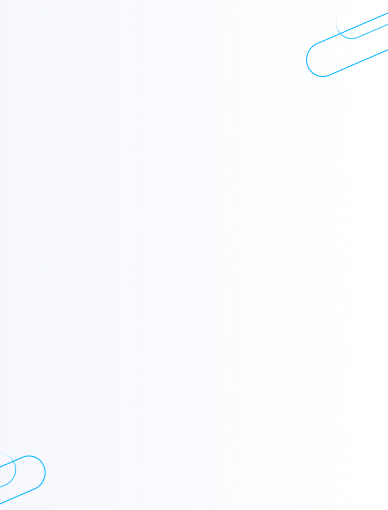
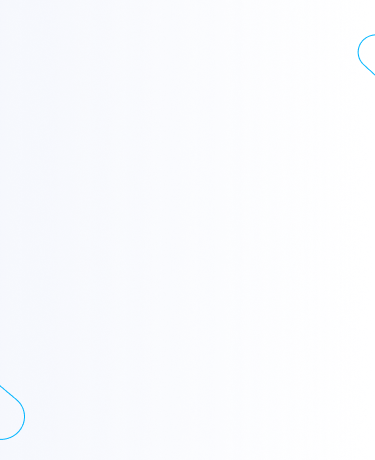
styles changes

diff --git a/src/pages/index.tsx b/src/pages/index.tsx
@@ -17,7 +17,7 @@ import { SesionStorageKeys } from '../session';
 export default function Home() {
   const [device, setDevice] = useSessionStorage(SesionStorageKeys.device.key, deviceType);
 
-  const { isMobile, isTablet, heightHeader, isSafari, isMedium, isLG } = useMediaQueryResponsive();
+  const { isMobile, isTablet, heightHeader, isSafari, isMedium, isLG, isSM } = useMediaQueryResponsive();
   useEffect(
     () => () => {
       setDevice(deviceType)
@@ -36,14 +36,14 @@ export default function Home() {
 
   }, []
   );
-  const titleClasses = isSafari ? 'xs:flex sm:flex  md:justify-end xs:pr-2 sm:pr-6 xs:pt-2 md:pr-[6rem] md:mt-1 xs:mt-5 lg:mt-[100px]  lg:flex lg:justify-center lg:ml-[40rem] paragraphContent  ml-5 sm:ml-0' : 'xs:flex sm:flex  md:justify-end  sm:pr-6 xs:pt-2 md:pr-[2rem] md:mt-1 xs:mt-5 lg:mt-[100px]  lg:flex lg:justify-center lg:ml-[40rem] sm:ml-5 xs:ml-1 sm:ml-0 lg:mr-40 xl:mt-[150px]';
+  const titleClasses = isSafari ? 'xs:flex sm:flex  md:justify-end  sm:pr-6 xs:pt-2 md:pr-[2rem] md:mt-1 xs:mt-5 lg:mt-[100px]  lg:flex lg:justify-center lg:ml-[40rem]  xs:ml-1 sm:ml-3 lg:mr-40 xl:mt-[150px] xs:mt-[34px] sm:mt-[44px]' : 'xs:flex sm:flex  md:justify-end  sm:pr-6 xs:pt-2 md:pr-[2rem] md:mt-1 xs:mt-5 lg:mt-[100px]  lg:flex lg:justify-center lg:ml-[40rem]  xs:ml-1 sm:ml-3 lg:mr-40 xl:mt-[150px] xs:mt-[34px] sm:mt-[44px] xxxl:mt-[290px] xxxl:pl-40';
 
-  const headerDescriptionClasess = isSafari ? 'xs:flex sm:flex  md:justify-end xs:pr-2 sm:pr-6 xs:pt-2 md:pr-[6rem] md:mt-1 xs:mt-5 lg:mt-[6px]  lg:flex lg:justify-center lg:ml-[40rem] paragraphContent ml-5' : 'xs:flex sm:flex  md:justify-end  sm:pr-6 xs:pt-2 md:pr-0 md:mt-5 xs:mt-5 lg:mt-[6px]  lg:flex lg:justify-center lg:ml-[40rem]  ml-5 xxl:pr-10';
+  const headerDescriptionClasess = isSafari ? 'xs:flex sm:flex  md:justify-end  sm:pr-6 xs:pt-2 md:pr-0 md:mt-5 xs:mt-[17px] lg:mt-[6px]  lg:flex lg:justify-center lg:ml-[40rem]  ml-5 xxl:pr-10' : 'xs:flex sm:flex  md:justify-end  sm:pr-6 xs:pt-2 md:pr-0 md:mt-5 xs:mt-[17px] lg:mt-[6px]  lg:flex lg:justify-center lg:ml-[40rem]  ml-5 xxl:pr-10 xxxl:pl-40';
   return (
     <div data-testid="landingPage" className="overflow-hidden landingPage">
-      <div className={`lg:bg-landing-lg xl:bg-landing-xl xxl:bg-bg-landing-xxl xxxl:bg-landing-xxxl md:bg-landing-md sm:bg-landing-sm smd:bg-landing-smd bg-landing-xs bg-no-repeat  -z-30 bg-cover xs:bg-bottom sm:bg-bottom md:bg-bottom lg:bg-center xl:bg-center xs:h-[419px] sm:h-[484px] smdd:h-[460px] smd:h-[484px]  md:h-[401px] lg:h-[596px] xl:h-[668px] xxl:bg-center xxl:h-[638px] xxxl:h-[752px] bgImageLanding xxxl:bg-center`}>
+      <div className={`lg:bg-landing-lg xl:bg-landing-xl xxl:bg-bg-landing-xxl xxxl:bg-landing-xxxl md:bg-landing-md sm:bg-landing-sm smd:bg-landing-smd bg-landing-xs bg-no-repeat  -z-30 bg-cover xs:bg-bottom sm:bg-bottom md:bg-bottom lg:bg-center xl:bg-center xs:h-[419px] sm:h-[484px] smdd:h-[460px] smd:h-[484px]  md:h-[401px] lg:h-[596px] xl:h-[668px] xxl:bg-center xxl:h-[100%] xxxl:h-[100%] bgImageLanding xxxl:bg-center`}>
         <div
-          className="  flex justify-start items-baseline xs:pt-3 xs:pl-4 sm:pt-3 sm:pl-4 md:pl-6 md:pt-6 lg:pt-5 lg:pl-10 xl:pt-5 xxl:pl-0 xxl:ml-20 iconHeader"
+          className="flex justify-start items-baseline xs:pl-4 sm:pt-7 xs:pt-7 sm:pl-4  md:pl-6 md:pt-6 lg:pt-5 lg:pl-10 xl:pt-5 xxl:pl-0 xxl:ml-20 iconHeader"
           itemScope
           itemProp="logo"
         >
@@ -51,11 +51,11 @@ export default function Home() {
         </div>
         <div className={titleClasses}>
           <div className="md:flex md:flex-col ">
-            <p className="text-white xs:text-[22px] sm:text-[22px] leading-[30px]  xs:ml-5 sm:ml-5 xs:mb-[3px] sm:mb-1 font-poppinsExtraLight md:text-primario-900">
+            <p className="text-white xs:text-[22px] sm:text-[22px] leading-[30px]  xs:ml-5 sm:ml-2 xs:mb-[3px] sm:mb-1 font-poppinsExtraLight md:text-primario-900">
               Bienvenido a
-              <figure itemProp="logo" className="mt-3 md:mt-1 m-0 p-0 w-full sm:pr-[3px] xs:pr-[0px] md:pr-0 smdd:pr-5 xmd:pr-20">
+              <figure itemProp="logo" className="mt-1 md:mt-1 m-0 p-0 w-full sm:pr-[3px] xs:pr-[0px] md:pr-0 smdd:pr-5 xmd:pr-20 pr-0 ">
                 {isMedium ? <LogoViviendaBlue /> :
-                  <LogoViviendaWhite height={heightHeader} width={isSafari ? '300' : "100%"} />
+                  <LogoViviendaWhite height={heightHeader} width={isSafari ? '300' : "100%"} vWidth={isSM ? '400' : '380'} />
                 }
               </figure>
             </p>
@@ -68,23 +68,23 @@ export default function Home() {
             <h4 className="text-white  md:w-[285px] lg:w-[394px] font-semibold lg:text-[24px] md:text-[20px] leading-6 wcontainerHeader font-montserratSemiBold sm:text-[20px] xs:text-[20px] md:text-primario-900 xxl:text-[28px] ">
               ¿Desea comprar vivienda?
             </h4>
-            <p className="text-white md:text-primario-900 sm:w-[335px] w-[290px] md:w-[275px] lg:w-[415.5px] xxl:w-[380px] font-light leading-[22px] md:leading-[20px] mt-[10px] wcontainerHeader text-[16px] md:text-[18px] md:mr-[40px]  font-monserratLight sm:text-[16px] sm:leading-[18px] xs:text-[14px] xs:leading-4 lg:text-[18px] xxl:mt-8">
+            <p className="text-white md:text-primario-900 sm:w-[335px] w-[290px] md:w-[275px] lg:w-[415.5px] xxl:w-[380px] font-light leading-[22px] md:leading-[20px] mt-[10px] wcontainerHeader text-[16px] md:text-[18px] md:mr-[40px]  font-monserratLight sm:text-[16px] sm:leading-[18px] xs:text-[14px] xs:leading-4 lg:text-[18px] xxl:mt-8 xs:mt-5">
               Aquí le ayudaremos a lograr sus sueños, sin hacer largas filas, ni papeleos extensos.
             </p>
           </div>
         </div>
         <SelectiveHomeCards isMobile={isMobile} />
       </div>
-      <div className="md:mt-[215px] lg:mt-[226px] sm:mt-[118px] mt-[116px] h-[510px] bg-requirements-sm lg:bg-requirements-lg xl:bg-requirements-xl xxl:bg-requirements-xxl xxxl:bg-requirements-xxxl bg-no-repeat bg-cover md:h-[327px] md:bg-requirements-md lg:h-[380px] xl:h-[360px] xl:mt-[137px] pb-40 xxl:h-[297px]">
-        <div className="lg:w-[1020px] xxl:w-[1100px]   md:w-[700px] m-auto xxl:mt-[260px]">
+      <div className="md:mt-[245px] lg:mt-[240px] sm:mt-[90px] mt-[121px] h-[452px] sm:bg-requirements-sm lg:bg-requirements-lg xl:bg-requirements-xl bg-requirements-xs xxl:bg-requirements-xxl xxxl:bg-requirements-xxxl bg-no-repeat bg-cover md:h-[310px] md:bg-requirements-md lg:h-[370px] xl:h-[360px] xl:mt-[208px] pb-40 xxl:h-[297px] sm:h-[490px] smd:mt-[93px] smd:h-[460px] smd:bg-requirements-smd xxl:mt-[192px]">
+        <div className="lg:w-[1020px] xxl:w-[1100px] md:w-[700px] m-auto xxl:mt-[144px] ">
           <Typography
             variant="h2"
-            className="text-center sm:my-[2.875rem] xs:my-[3rem] lg:mt-[42px] xl-mt-[42px] md:mt-[26px] font-poppinsBold sm:pt-[59px] mt-9 xl:mt-[59px]"
+            className="text-center sm:my-8 xs:my-8 lg:mt-[42px] xl-mt-[42px] md:mt-[26px] font-poppinsSemiBold sm:pt-8 xl:mt-[59px] pt-8 text-[28px] lg:pt-[64px]"
           >
             Requisitos
           </Typography>
 
-          <div className="grid lg:grid-cols-2 xxl:grid-cols-4 md:grid-cols-2 md:gap-3 justify-items-center xxl:flex">
+          <div className="grid lg:grid-cols-2 xxl:grid-cols-4 md:grid-cols-2 md:gap-3 justify-items-center xxl:flex lg:mt-8">
             <div className="lg:w-[499px]  md:w-[336px] sm:w-[338px] w-[289px] xxxl:w-[292px]xxl:w-[292px]">
               <SelectiveCard
                 description="Tener entre 18 y 70 años."
@@ -94,7 +94,7 @@ export default function Home() {
                 color="text-complementario-100"
                 size="text-[1.6rem]"
                 className="sm:mb-3 mb-3 md:mb-0 border-[0.3px] xxl:border-none border-complementario-100"
-                classNamesDescription='ml-[5px] lg:w-[120px] md:w-[110px] font-monserratLight mb-3 md:text-[15px] lg:text-[16px]'
+                classNamesDescription='ml-[5px] lg:w-[120px] md:w-[100px] sm:w-full font-monserratLight mb-3 md:text-[15px] lg:text-[16px] xs:w-[100px] lg:w-full'
               />
             </div>
             <div className='w-[2px] hidden  bg-complementario-70 h-[46px] xxl:grid place-items-center mt-3'></div>
@@ -107,7 +107,7 @@ export default function Home() {
                 color="text-complementario-100"
                 size="text-[2rem]"
                 className="sm:mb-3 xs:mb-3 md:mb-0 border-[0.3px] xxl:border-none  border-complementario-100"
-                classNamesDescription='ml-[5px] lg:w-[120px] md:w-[110px] font-monserratLight mb-3 md:text-[15px] lg:text-[16px]'
+                classNamesDescription='ml-[5px] lg:w-[120px] md:w-[105px] sm:w-full font-monserratLight mb-3 md:text-[15px] lg:text-[16px] xs:w-[115px] lg:w-full'
               />
             </div>
             <div className='w-[2px] hidden  bg-complementario-70 h-[46px] xxl:grid place-items-center mt-3'></div>
@@ -120,7 +120,7 @@ export default function Home() {
                 color="text-complementario-100"
                 size="text-[2rem]"
                 className="sm:mb-3 mb-3 md:mb-0 border-[0.3px] xxl:border-none  border-complementario-100"
-                classNamesDescription='ml-[5px] lg:w-[120px] md:w-[110px] font-monserratLight mb-3 md:text-[15px] lg:text-[16px]'
+                classNamesDescription='ml-[5px] lg:w-[120px] md:w-[90px] sm:w-full  font-monserratLight mb-3 md:text-[15px] lg:text-[16px] xs:w-[100px] lg:w-full'
               />
             </div>
             <div className='w-[2px] hidden  bg-complementario-70 h-[46px] xxl:grid place-items-center mt-3'></div>
@@ -133,7 +133,7 @@ export default function Home() {
                 color="text-complementario-100"
                 size="text-[2rem]"
                 className="sm:mb-3 mb-3 md:mb-0 border-[0.3px] xxl:border-none  border-complementario-100"
-                classNamesDescription='ml-[5px] lg:w-[120px] md:w-[110px] font-monserratLight mb-3 md:text-[15px] lg:text-[16px]'
+                classNamesDescription='ml-[5px] lg:w-[120px] md:w-[120px] sm:w-full  font-monserratLight mb-3 md:text-[15px] lg:text-[16px] xs:w-[120px] lg:w-full '
               />
             </div>
           </div>
@@ -142,28 +142,28 @@ export default function Home() {
 
 
       {/* steps  */}
-      <div className="bg-white flex justify-between xl:w-[1047px] xl:m-auto">
-        <div className='lg:ml-[36px] md:ml-[81px] m-auto md:m-0 xl:ml-1'>
-          <Typography variant="h2" className="md:text-left text-center lg:mt-[149px] xl:mt-[148px] md:mt-[93px] mt-[80px]  font-poppinsBold ml-5 md:ml-0">
+      <div className="bg-white flex justify-between sm:w-[309px] smd:w-[385px] smd:m-auto xl:w-[1047px] xl:m-auto md:w-full">
+        <div className='lg:ml-[36px] md:ml-[30px] m-auto md:m-0 xl:ml-1 smd:ml-2 '>
+          <Typography variant="h2" className="md:text-left text-center lg:mt-[149px] xl:mt-[148px] md:mt-[93px] mt-[80px]  font-poppinsSemiBold text-[28px] ml-5 md:ml-0">
             Tan solo en <span className="block lg:inline">cuatro pasos</span>
           </Typography>
-          <div className='mt-[48px] ml-5 md:ml-0'>
+          <div className='mt-8 ml-5 md:ml-0 smd:ml-1'>
             <Step titleNumber='1' description={`Ingrese a “Solicitar Crédito”`} />
             <Step titleNumber='2' description={`Valide su identidad`} />
             <Step titleNumber='3' description={`Diligencie el formulario`} />
             <Step titleNumber='4' description={`Obtenga la preaprobación`} />
           </div>
         </div>
-        <div className='relative md:flex items-center justify-center lg:h-[585px] lg:w-[474px] xl:w-[487px] md:w-[381px] md:h-[471px] hidden md:mt-[62px] lg:mt-[64px] xl:mt-[63px] '>
+        <div className='relative md:flex items-center justify-center lg:h-[585px] lg:w-[534px] xl:w-[487px] md:w-[381px] md:h-[471px] hidden md:mt-[62px] lg:mt-[64px] xl:mt-[63px] '>
           <img src={isTablet ? `${basePath}/images/stepsmd.svg` : isLG ? `${basePath}/images/stepslg.svg` : ``} alt="" className='left-0 ' />
         </div>
       </div>
       {/* beneficios */}
       <div className="md:mt-[100px] mt-[80px] lg:mt-20">
-        <Typography variant="h2" className=" text-center lg:mb-[105px] text-[32px] font-poppinsBold md:mt-0 mt-[66px]">
+        <Typography variant="h2" className=" text-center lg:mb-[105px] text-[32px] font-poppinsSemiBold md:mt-0 mt-[66px]">
           Beneficios
         </Typography>
-        <div className="bgBenefits md:grid md:grid-cols-2 sm:grid sm:grid-col-1 xs:mt-[12rem] md:mt-[5rem] relative md:h-[314px] gap-5 h-[520px] lg:h-[400px]">
+        <div className="bgBenefits md:grid md:grid-cols-2 sm:grid sm:grid-col-1 xs:mt-[12rem] md:mt-[5rem] relative md:h-[314px] gap-5 h-[520px] sm:h-[532px] lg:h-[400px]">
           <div className="relative xs:top-[-140px]  md:top-[-25px] flex justify-center md:justify-end ">
             <img
               src={`${basePath}/images/beneficios.png`}
@@ -172,8 +172,8 @@ export default function Home() {
             />
           </div>
 
-          <div className="listInitial lg:w-[440px] relative block mx-5 sm:top-[-128px] xs:top-[-110px] md:top-0 ">
-            <ul className='font-monserratLight mb-0'>
+          <div className="listInitial lg:w-[440px] relative block mx-5 sm:top-[-128px] xs:top-[-110px] md:top-0 xs:w-[260px] sm:w-[90%] smd:w-[80%] smd:m-auto md:mt-[-20px] md:w-[70%] lg:mt-0 xxxl:ml-10">
+            <ul className='font-monserratLight mb-0 '>
               <li className="lg:text-[20px] text-[16px] font-light leading-[22px] lg:mt-[127px] md:mt-20 text-complementario-100 ">
                 Preaprobación inmediata en línea
               </li>

diff --git a/src/components/ui/Home/SelectiveHomeCards.tsx b/src/components/ui/Home/SelectiveHomeCards.tsx
@@ -7,13 +7,13 @@ export interface iSelectiveHomeCards {
 
 const SelectiveHomeCards: FC<iSelectiveHomeCards> = ({ isMobile }) => {
 
-  return <div className="container cntainerCards mx-auto lg:w-[1024px] xl:w-[1020px] xxl:w-[930px]  md:grid md:grid-cols-3 grid grid-cols-3 md:mt-[3rem] gap-2 lg:mt-[11rem] xxl:mt-[10rem] md:w-[700px] sm:mt-[95px] mt-[45px] xmd:mt-10 xs:w-[295px] sm:w-[350px] smd:w-[398px] xl:mt-[150px] ">
+  return <div className="container cntainerCards mx-auto lg:w-[1024px] xl:w-[1020px] xxl:w-[930px]  md:grid md:grid-cols-3 grid grid-cols-3 md:mt-[3rem] gap-2 lg:mt-[10rem] xxl:mt-[12rem] md:w-[700px] sm:mt-[65px] mt-[45px] xmd:mt-10 xs:w-[295px] sm:w-[340px] smd:w-[382px] xl:mt-[150px] xs:mt-[30px]">
 
-    <SelectiveCard icon="bcs-document-one" size={`${isMobile ? 'text-[1.2rem]' : 'text-[2.5rem]'}`} color="text-white" data-testid="SoliciteTest" label="Solicite su crédito" description="Obtenga la preaprobación de su crédito hipotecario y compre la vivienda que desea." pathTo={routes.onboarding} titleClasses="md:text-[13px] lg:text-[14px] text-[12px] text-center font-montserratSemiBold font-semibold text-white w-full leading-[14px] md:pb-0 sm:pb-6 pb-6" classNamesDescription='md:w-[166px] lg:w-[224px] md:text-[12px] lg:text-[16px]  font-monserratLight lg:pb-5 md:pb-1 lg:pb-2 md:block hidden' className="xxl:w-[299px] sm:mt-4 xs:mt-4 smd:w-[122px] smd:h-[118px] sm:w-[109px] lg:w-[332px] md:w-[223px] md:h-[178px] lg:h-[198px] h-[110px] w-[95px] " onclick active />
+    <SelectiveCard icon="bcs-document-one" size={`${isMobile ? 'text-[1.2rem]' : 'text-[2.5rem]'}`} color="text-white" data-testid="SoliciteTest" label={<span className="inline">Solicite <span className="xs:block md:inline">su crédito</span></span>} description="Obtenga la preaprobación de su crédito hipotecario y compre la vivienda que desea." pathTo={routes.onboarding} titleClasses="xs:mt-[10px] xs:text-[10px] md:text-[13px] lg:text-[14px] text-[12px] text-center font-montserratMedium font-semibold text-white w-full leading-[14px] md:pb-0 sm:pb-6 pb-6 sm:text-[12px]" classNamesDescription='font-montserratRegular md:w-[166px] lg:w-[224px] md:text-[12px] lg:text-[16px]  font-monserratLight lg:pb-5 md:pb-1 lg:pb-2 md:block hidden lg:text-[16px]' className="xxl:w-[299px] sm:mt-4 xs:mt-4 smd:w-[122px] smd:h-[118px] sm:w-[109px] lg:w-[332px] md:w-[223px] md:h-[198px] lg:h-[218px] h-[115px] w-[95px] " onclick active />
 
-    <SelectiveCard icon="bcs-hand-mobile" size={`${isMobile ? 'text-[1.2rem]' : 'text-[2.5rem]'}`} color="text-primario-300" label="Simule su crédito" data-testid="simuladorTestBtn" description="Calcule el valor del crédito y sus cuotas." pathTo={routes.simulador} className="xxl:w-[299px] sm:mt-4 xs:mt-4 sm:w-[109px] smd:w-[122px] smd:h-[118px] lg:w-[332px] md:w-[223px] md:h-[178px] lg:h-[198px] h-[110px] w-[95px]" titleClasses="md:text-[13px] lg:text-[14px] text-[12px] text-center md:w-full font-montserratSemiBold font-semibold text-white w-full leading-[14px] md:pb-0 sm:pb-6 pb-6" classNamesDescription='md:w-[143px] lg:w-[210px] md:text-[12px] lg:text-[16px]  font-monserratLight lg:pb-5 md:pb-9 lg:pb-11 md:block hidden' onclick />
+    <SelectiveCard icon="bcs-hand-mobile" size={`${isMobile ? 'text-[1.2rem]' : 'text-[2.5rem]'}`} color="text-primario-300" label={<span className="inline">Simule  <span className="xs:block md:inline">su crédito</span></span>} data-testid="simuladorTestBtn" description="Calcule el valor del crédito y sus cuotas." pathTo={routes.simulador} className="xxl:w-[299px] sm:mt-4 xs:mt-4 sm:w-[109px] smd:w-[122px] smd:h-[118px] lg:w-[332px]  md:w-[223px] md:h-[198px] lg:h-[218px] h-[115px] w-[95px]" titleClasses="xs:mt-[10px] md:text-[13px] lg:text-[14px] text-[12px] text-center md:w-full font-montserratMedium font-semibold text-white w-full leading-[14px] md:pb-0 sm:pb-6 pb-6 xs:w-full xs:text-[10px] sm:text-[12px]" classNamesDescription='font-montserratRegular md:w-[143px] lg:w-[210px] md:text-[12px] lg:text-[16px]  font-monserratLight lg:pb-5 md:pb-9 lg:pb-11 md:block hidden lg:text-[16px]' onclick />
 
-    <SelectiveCard icon="bcs-hand-simbol" size={`${isMobile ? 'text-[1.2rem]' : 'text-[2.5rem]'}`} color="text-primario-300" data-testid="consultancyTestBtn" label={`Aprenda sobre vivienda  `} description="Recorra la guía interactiva y conozca todo lo que debe saber para comprar un inmueble." pathTo={routes.consultancy} className="xxl:w-[299px] sm:mt-4 xs:mt-4 sm:w-[109px] smd:w-[122px] smd:h-[118px] lg:w-[332px] md:w-[223px] md:h-[178px] lg:h-[198px] h-[110px] w-[95px] text-[2px]" titleClasses="md:text-[13px] lg:text-[14px] text-[12px] text-center font-montserratSemiBold font-semibold text-white w-full leading-[14px] smd:pb-9 md:pb-0" classNamesDescription='md:w-[166px] lg:w-[224px] md:text-[12px] lg:text-[16px]  font-monserratLight lg:pb-5 md:pb-1 lg:pb-2 md:block hidden ' onclick />
+    <SelectiveCard icon="bcs-hand-simbol" size={`${isMobile ? 'text-[1.2rem]' : 'text-[2.5rem]'}`} color="text-primario-300" data-testid="consultancyTestBtn" label={<span className="inline">Aprenda <span className="sm:block md:inline">sobre vivienda</span></span>} description="Recorra la guía interactiva y conozca todo lo que debe saber para comprar un inmueble." pathTo={routes.consultancy} className="xxl:w-[299px] sm:mt-4 xs:mt-4 sm:w-[109px] smd:w-[122px] smd:h-[118px] lg:w-[332px] md:w-[223px] md:h-[198px] lg:h-[218px] h-[115px] w-[95px] text-[2px]" titleClasses="xs:mt-[10px] sm:pb-2 xs:text-[10px] md:text-[13px] lg:text-[14px] text-[12px] text-center font-montserratMedium font-semibold text-white w-full leading-[14px] smd:pb-9 md:pb-0 xs:w-full sm:text-[12px]" classNamesDescription='font-montserratRegular md:w-[166px] lg:w-[224px] md:text-[12px] lg:text-[16px]  font-monserratLight lg:pb-5 md:pb-1 lg:pb-2 md:block hidden lg:text-[16px]' onclick />
   </div>;
 }
 

diff --git a/src/components/svg/LogoViviendaWhite.tsx b/src/components/svg/LogoViviendaWhite.tsx
@@ -1,7 +1,7 @@
 import React from "react";
 
-function LogoViviendaWhite({ height = "34", width = "100%" }) {
-  return <svg width={width} height={height} viewBox={`0 0 450 ${height}`} fill="none" xmlns="http://www.w3.org/2000/svg">
+function LogoViviendaWhite({ height = "34", width = "100%", vWidth = "380" }) {
+  return <svg width={width} height={height} viewBox={`0 0 ${vWidth} ${height}`} fill="none" xmlns="http://www.w3.org/2000/svg">
     <path d="M14.4268 17.7734H20.2373C20.1598 19.4557 19.7061 20.9388 18.876 22.2227C18.0459 23.5065 16.8949 24.5081 15.4229 25.2275C13.9619 25.9359 12.2354 26.29 10.2432 26.29C8.62728 26.29 7.18294 26.0189 5.91016 25.4766C4.64844 24.9342 3.57487 24.154 2.68945 23.1357C1.8151 22.1175 1.14551 20.8835 0.680664 19.4336C0.226888 17.9837 0 16.3512 0 14.5361V13.2246C0 11.4095 0.237956 9.77702 0.713867 8.32715C1.20085 6.86621 1.88704 5.62663 2.77246 4.6084C3.66895 3.5791 4.74251 2.79329 5.99316 2.25098C7.24382 1.70866 8.63281 1.4375 10.1602 1.4375C12.263 1.4375 14.0394 1.8138 15.4893 2.56641C16.9391 3.31901 18.0625 4.35384 18.8594 5.6709C19.6562 6.97689 20.1266 8.46549 20.2705 10.1367H14.46C14.4378 9.22917 14.2829 8.47103 13.9951 7.8623C13.7074 7.24251 13.2536 6.77767 12.6338 6.46777C12.014 6.15788 11.1895 6.00293 10.1602 6.00293C9.44076 6.00293 8.81543 6.13574 8.28418 6.40137C7.75293 6.66699 7.31022 7.08757 6.95605 7.66309C6.60189 8.23861 6.33626 8.98568 6.15918 9.9043C5.99316 10.8118 5.91016 11.9076 5.91016 13.1914V14.5361C5.91016 15.82 5.98763 16.9157 6.14258 17.8232C6.29753 18.7308 6.54655 19.4723 6.88965 20.0479C7.23275 20.6234 7.67546 21.0495 8.21777 21.3262C8.77116 21.5918 9.44629 21.7246 10.2432 21.7246C11.1286 21.7246 11.8757 21.5863 12.4844 21.3096C13.0931 21.0218 13.5635 20.5902 13.8955 20.0146C14.2275 19.4281 14.4046 18.681 14.4268 17.7734Z" fill="white" />
     <path d="M28.0321 12.4443V25.958H22.4373V7.99512H27.6668L28.0321 12.4443ZM33.3446 7.8623L33.245 13.0586C33.0236 13.0365 32.7248 13.0088 32.3485 12.9756C31.9722 12.9424 31.6567 12.9258 31.4022 12.9258C30.7492 12.9258 30.1847 13.0033 29.7088 13.1582C29.244 13.3021 28.8566 13.5234 28.5467 13.8223C28.2479 14.11 28.0265 14.4753 27.8827 14.918C27.7498 15.3607 27.689 15.8753 27.7 16.4619L26.6873 15.7979C26.6873 14.5915 26.8036 13.4958 27.036 12.5107C27.2795 11.5146 27.6226 10.6569 28.0653 9.9375C28.508 9.20703 29.0448 8.64811 29.6756 8.26074C30.3065 7.8623 31.0148 7.66309 31.8006 7.66309C32.0773 7.66309 32.3485 7.67969 32.6141 7.71289C32.8908 7.74609 33.1343 7.7959 33.3446 7.8623Z" fill="white" />
     <path d="M43.2975 26.29C41.8366 26.29 40.5306 26.0632 39.3796 25.6094C38.2285 25.1445 37.2546 24.5081 36.4577 23.7002C35.6719 22.8923 35.0687 21.9626 34.6481 20.9111C34.2386 19.8597 34.0339 18.7474 34.0339 17.5742V16.9434C34.0339 15.6263 34.2165 14.4089 34.5817 13.291C34.947 12.1621 35.4893 11.1771 36.2087 10.3359C36.9281 9.49479 37.8301 8.8418 38.9147 8.37695C39.9994 7.90104 41.2611 7.66309 42.6999 7.66309C43.9727 7.66309 45.1126 7.86784 46.1198 8.27734C47.127 8.68685 47.9792 9.27344 48.6764 10.0371C49.3848 10.8008 49.9216 11.7249 50.2868 12.8096C50.6631 13.8942 50.8512 15.1117 50.8512 16.4619V18.7363H36.1755V15.2334H45.3893V14.8018C45.4004 14.2041 45.2953 13.695 45.0739 13.2744C44.8636 12.8538 44.5537 12.5329 44.1442 12.3115C43.7347 12.0902 43.2367 11.9795 42.6501 11.9795C42.0414 11.9795 41.5378 12.1123 41.1393 12.3779C40.752 12.6436 40.4476 13.0088 40.2262 13.4736C40.016 13.9274 39.8665 14.4531 39.778 15.0508C39.6895 15.6484 39.6452 16.2793 39.6452 16.9434V17.5742C39.6452 18.2383 39.7337 18.8415 39.9108 19.3838C40.099 19.9261 40.3646 20.391 40.7077 20.7783C41.0619 21.1546 41.4824 21.4479 41.9694 21.6582C42.4675 21.8685 43.0319 21.9736 43.6628 21.9736C44.4264 21.9736 45.179 21.8298 45.9206 21.542C46.6621 21.2542 47.2985 20.7783 47.8298 20.1143L50.3698 23.1357C50.0046 23.6559 49.4844 24.1595 48.8093 24.6465C48.1452 25.1335 47.3483 25.5319 46.4186 25.8418C45.4889 26.1406 44.4486 26.29 43.2975 26.29ZM39.3298 5.6543L42.6169 0.441406H48.527L43.8952 5.6543H39.3298Z" fill="white" />

diff --git a/src/components/ui/Accordion/ItemAccordion.tsx b/src/components/ui/Accordion/ItemAccordion.tsx
@@ -22,9 +22,8 @@ const ItemAccordion: React.FC<Props & childrenProps> = ({
   return (
     <div
       data-testid="accordion"
-      className={`w-full bg-white  shadow-small-300   ${
-        active ? 'border-[1px] border-complementario-70 rounded-md  ' : ' rounded-t-md '
-      } `}
+      className={`w-full bg-white  shadow-small-300   ${active ? 'border-[1px] border-complementario-70 rounded-md  ' : ' rounded-t-md '
+        } `}
       itemScope
       itemProp="mainEntity"
       itemType="https://schema.org/Question"
@@ -35,17 +34,15 @@ const ItemAccordion: React.FC<Props & childrenProps> = ({
         onKeyDown={handleSelected}
         role="button"
         tabIndex={0}
-        className={`flex justify-between items-center cursor-pointer px-[20px] text-azul_gris-100 ${
-          active
-            ? 'bg-gris-80  rounded-t-md border-b-complementario-70 border-b-[1px]'
-            : 'bg-white border-[1px] border-complementario-70  rounded-t-md'
-        }`}
+        className={`flex justify-between items-center cursor-pointer px-[20px] text-azul_gris-100 ${active
+          ? 'bg-gris-80  rounded-t-md border-b-complementario-70 border-b-[1px]'
+          : 'bg-white border-[1px] border-complementario-70  rounded-t-md'
+          }`}
       >
         <h2
           id={`title-question-${id}`}
-          className={`font-montserratSemiBold font-semibold text-base leading-[18px] text-[16px] ${
-            active ? 'py-[21px]' : 'py-4'
-          }  head-accordiom-color text-complementario-100`}
+          className={`font-monserratLight  text-base leading-[18px] text-[16px] ${active ? 'py-[21px]' : 'py-4'
+            }  head-accordiom-color text-complementario-100`}
           itemProp="name"
         >
           {title}

diff --git a/src/components/ui/Accordion/index.tsx b/src/components/ui/Accordion/index.tsx
@@ -13,7 +13,7 @@ const Questions: FC = () => {
     >
       <h2
         id="questions"
-        className="text-center min-w-[291px] lg:mb-[48px] mt-[80px]  md:mb-[48px] md:mt-[80px] w-full text-[30px] leading-[34px]  mb-[45px] lg:text-[32px] lg:leading-[34px] font-poppinsBold"
+        className="text-center min-w-[291px] lg:mb-[48px] mt-[80px]  md:mb-[48px] md:mt-[80px] w-full text-[28px] leading-[34px]  mb-8 lg:text-[32px] lg:leading-[34px] font-poppinsSemiBold"
         role="paragraph"
         tabIndex={0}
       >
@@ -83,7 +83,7 @@ const Questions: FC = () => {
             setSelected={setSelected}
           >
             <div data-testid="itemATest6">
-            Las condiciones que el Banco maneja en este momento son:
+              Las condiciones que el Banco maneja en este momento son:
               <ul className="list-disc ml-6 mt-3">
                 <li>Tipo de vivienda VIS y No VIS.</li>
                 <li>Aplica para vivienda nueva y usada.</li>

diff --git a/src/services/index.ts b/src/services/index.ts
@@ -79,7 +79,7 @@ export const getQuestions = async (data: any) => {
 // TODO sendQuestions KYC
 export const sendQuestions = async (data: any) => {
   try {
-    const dataInfo = await allResponse({...data,processId: getProcessId()}, KEY);
+    const dataInfo = await allResponse({ ...data, processId: getProcessId() }, KEY);
     const { data: response } = await clientAxiosBackend.post(
       // '/customers/answer',
       '/api-composer/composer/answer',
@@ -160,8 +160,8 @@ export const validateOTOCode = async (data: ValidateOTC) => {
 export const reSendOTPCode = async (data: OTPCodeRequest) => {
   try {
     const dataInfo = await allResponse({ ...data, processId: getProcessId() }, KEY);
-    const { data: response } = await clientAxiosMock.post(
-      '/identity-user/resend',
+    const { data: response } = await clientAxiosBackend.post(
+      '/api-composer/composer/resend-otp',
       { data: dataInfo },
       headersBack
     );

diff --git a/src/components/ui/Card/Step.tsx b/src/components/ui/Card/Step.tsx
@@ -13,10 +13,10 @@ const Step: FC<stepProps> = ({ titleNumber, description }) => {
       <Typography variant="h4" className=" text-primario-300 text-center mt-5 text-[22px]">
         {titleNumber}
       </Typography>
-      <div className='bg-gris-90 border-b border-b-primario-100 lg:w-[424px] md:w-[264px]   pb-[20px] pt-[21px] pl-4 sm:w-[305px] w-[250px]'>
+      <div className='bg-gris-90 border-b border-b-primario-100 lg:w-[424px] md:w-[264px]   pb-[20px] pt-[21px] pl-4 sm:w-[305px] w-[250px] smd:w-[330px]'>
         <Typography
           variant="bodyS3"
-          className="text-primario-900  md:text-[16px] lg:text-[16px] font-monserratLight text-left"
+          className="text-complementario-100  md:text-[16px] lg:text-[16px] font-monserratLight text-left"
         >
           {description}
         </Typography>

diff --git a/src/components/ui/Form/PersonalDataBasic.tsx b/src/components/ui/Form/PersonalDataBasic.tsx
@@ -281,7 +281,7 @@ function PersonalDataBasic({ userInfo }: any) {
                 <Input
                   helperText="Ejemplo: correo@dominio.com"
                   helperTextOption
-                  type="email"
+                  type="text"
                   error={!!errors.email}
                   onPaste={(e: ClipboardEvent<HTMLInputElement>) => {
                     e.preventDefault();
@@ -292,7 +292,7 @@ function PersonalDataBasic({ userInfo }: any) {
                   id="email"
                   onFocus={showPopup}
                   data-testid="emailTest"
-                  inputMode="email"
+                  inputMode="text"
                   placeholder="Correo electrónico"
                   label="Correo electrónico"
                   onChange={(e: any) => setValue('email', e.target.value)}

diff --git a/src/components/ui/Card/SelectiveClassnames.ts b/src/components/ui/Card/SelectiveClassnames.ts
@@ -1,5 +1,5 @@
 const dynamicClassesSelective = (hasTitle: boolean, className: string, activeCard: boolean) => {
-  const activeClasses = activeCard ? 'bg-primario-30 text-white' : ''
+  const activeClasses = activeCard ? 'bg-primario-20 text-white' : ''
   const mainClasesParentDiv = hasTitle
     ? `group b-4 relative sm:m-auto xl:flex flex md:flex flex-col md:flex-col lg:flex-col  md:justify-center md:text-center lg:justify-center lg:text-center items-center w-full px-[16px] rounded-l-lg  select-none py-[20px] rounded-r-xl cursor-pointer  hover:bg-primario-100 shadow-small-400 bg-white ${className} ${activeClasses}`
     : `relative xl:flex flex md:flex sm:flex-row  items-center  px-[16px] rounded-l-lg  select-none py-[0px] rounded-r-xl ${className}`;

diff --git a/tailwind.config.js b/tailwind.config.js
@@ -173,6 +173,8 @@ module.exports = {
         'requirements-xxxl':`url('${basePath}/images/requirementsxxxl.png')`,
         'requirements-md':`url('${basePath}/images/requirementsmd.png')`,
         'requirements-sm':`url('${basePath}/images/requirementssm.png')`,
+        'requirements-smd':`url('${basePath}/images/requirementssmd.png')`,
+        'requirements-xs':`url('${basePath}/images/requirementsxs.png')`,
 
         'landing-md':`url('${basePath}/images/landingMd.png')`,
         'landing-smd':`url('${basePath}/images/landingSmd.png')`,

diff --git a/src/components/ui/Card/SelectiveCard.tsx b/src/components/ui/Card/SelectiveCard.tsx
@@ -7,8 +7,8 @@ import dynamicClassesSelective from './SelectiveClassnames';
 import React from 'react'
 
 export interface ISelectiveCardProps extends IconsProps {
-  label?: string;
-  description: string;
+  label?:React.ReactNode| string;
+  description:  string;
   pathTo?: string;
   className?: string;
   hasTitle?: boolean;

diff --git a/src/hooks/useMediaQuery.tsx b/src/hooks/useMediaQuery.tsx
@@ -6,7 +6,7 @@ export default function useMediaQueryResponsive() {
     query: "(max-width:575px)"
   })
   const isTablet = useMediaQuery({
-    query: "(min-width: 576px) and (max-width: 1083px)"
+    query: "(min-width: 576px) and (max-width: 1079px)"
   })
   const isBrowser = useMediaQuery({
     query: "(min-width: 1024px) "
